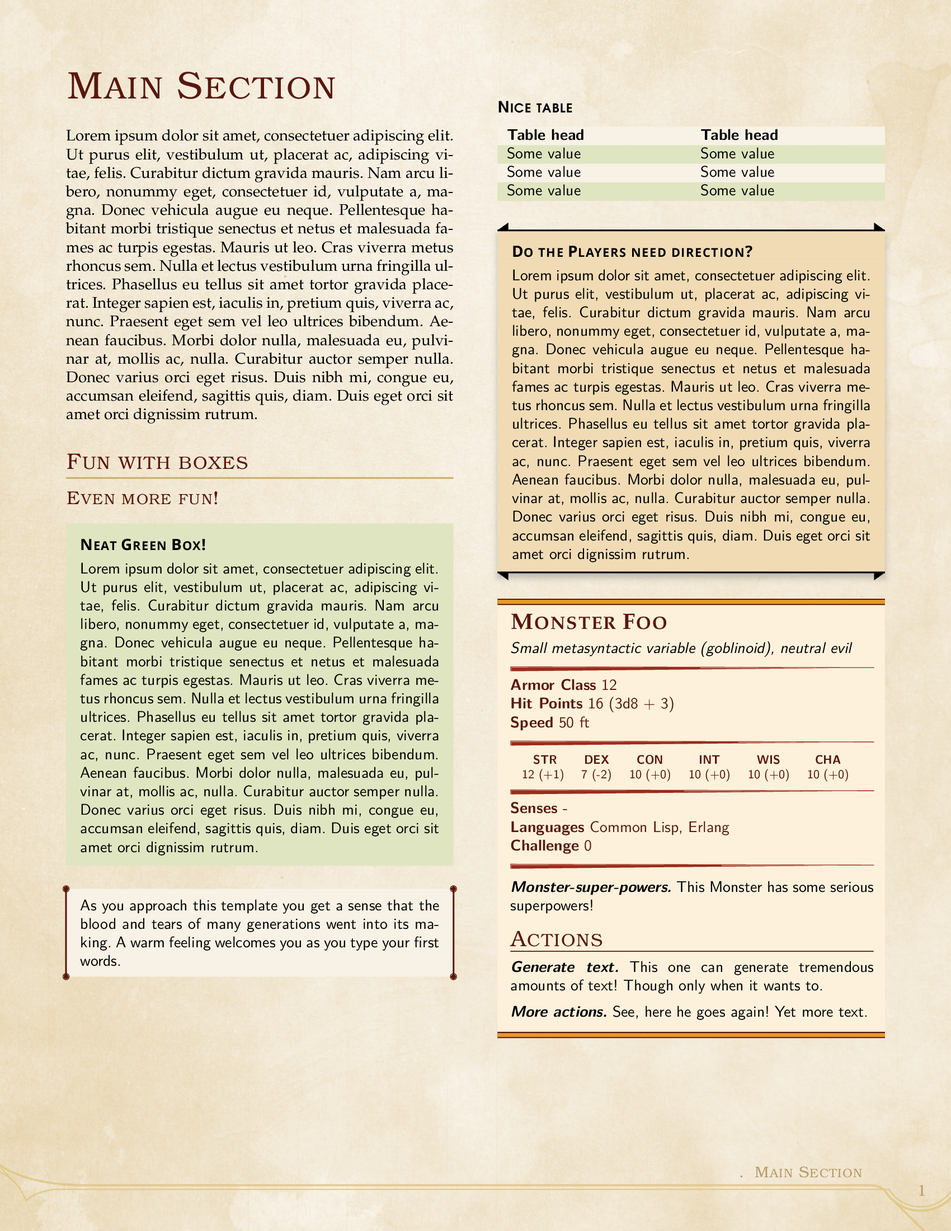
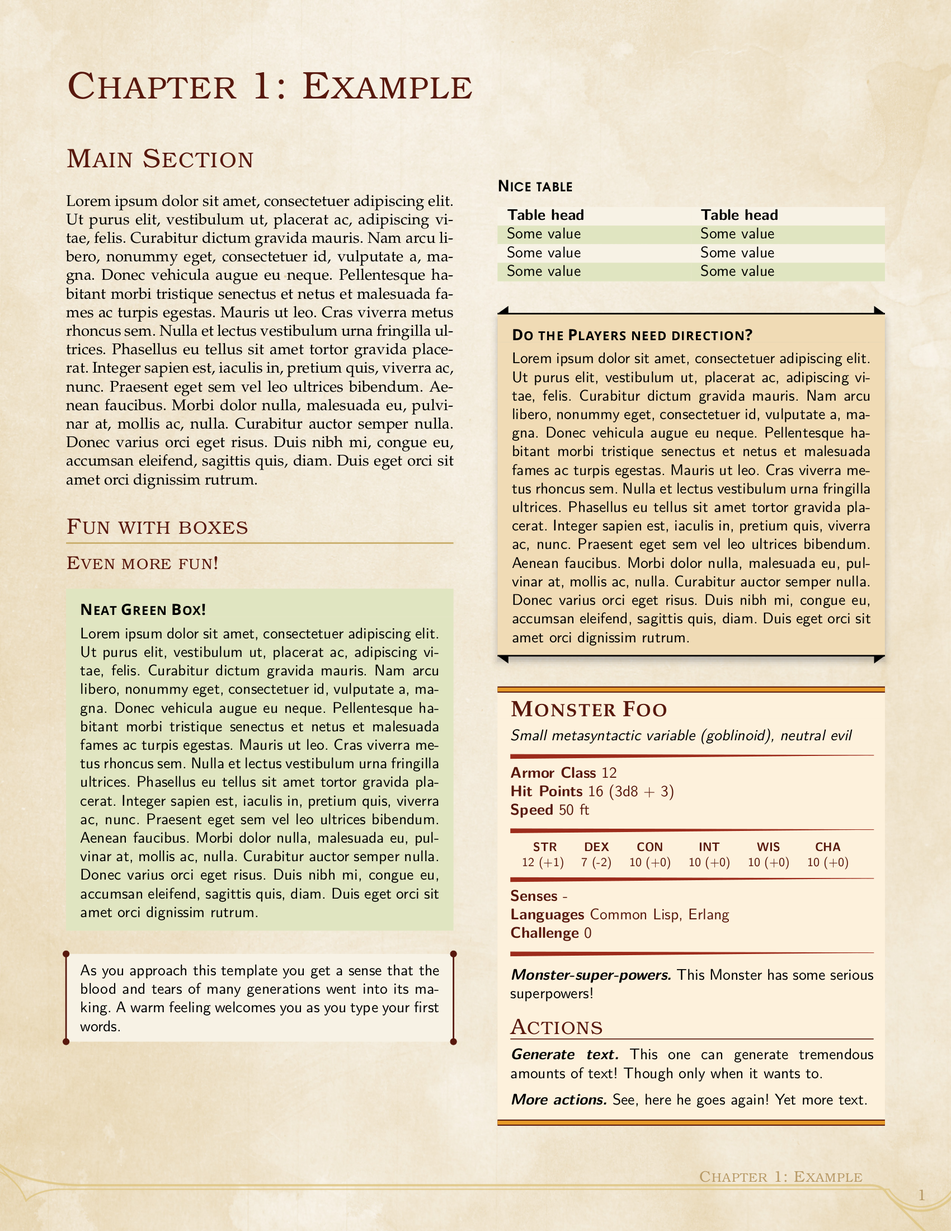
implemented chapters, changing class to book

Changed region(s): [[0.0624, 0.0618, 0.4988, 0.8655], [0.4988, 0.0618, 0.9353, 0.9582], [0.8418, 0.0927, 0.9353, 0.1545]]

diff --git a/example.tex b/example.tex
@@ -1,4 +1,4 @@
-\documentclass[10pt,twoside,twocolumn]{article}
+\documentclass[10pt,twoside,twocolumn,openany]{book}
 \usepackage[bg-letter]{dnd} % Options: bg-a4, bg-letter, bg-full, bg-print, bg-none.
 \usepackage[ngerman]{babel} % Trennungsregeln und autom. Überschriften in n. dt. RS
 \usepackage[utf8]{inputenc}
@@ -8,6 +8,8 @@
 \fontfamily{ppl}\selectfont % Set text font
 
 % Your content goes here
+
+\chapter{Chapter 1: Example}
 
 \section{Main Section}
 \lipsum[1] % filler text
